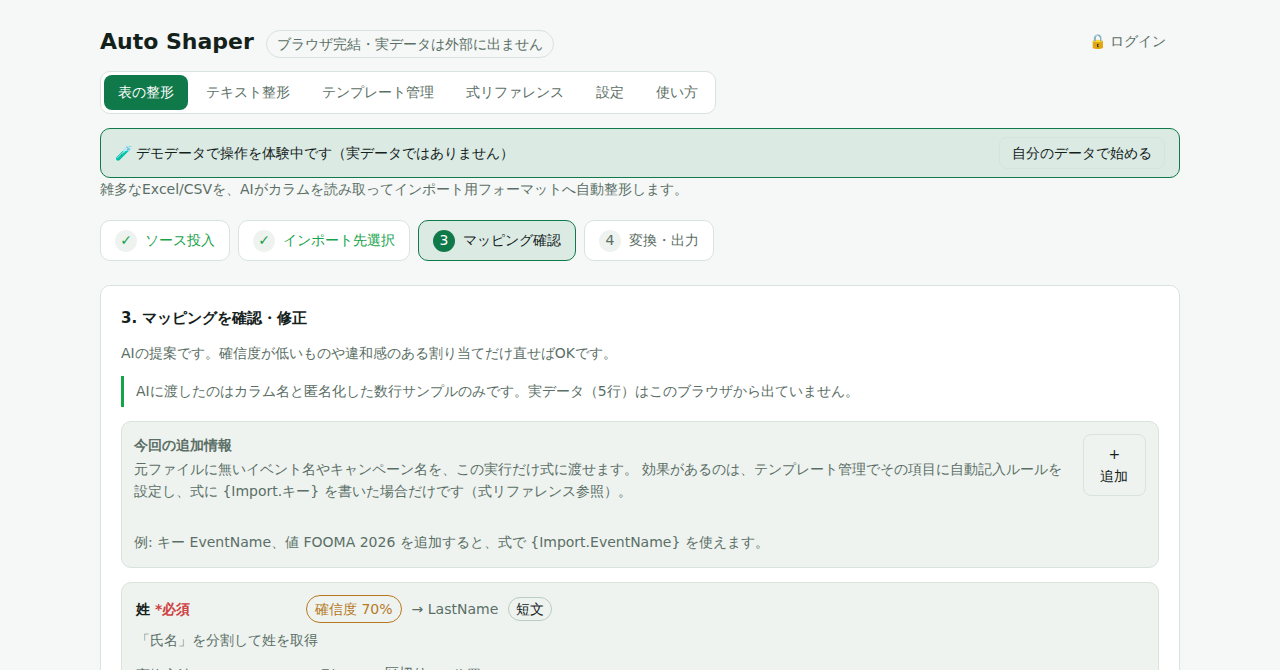
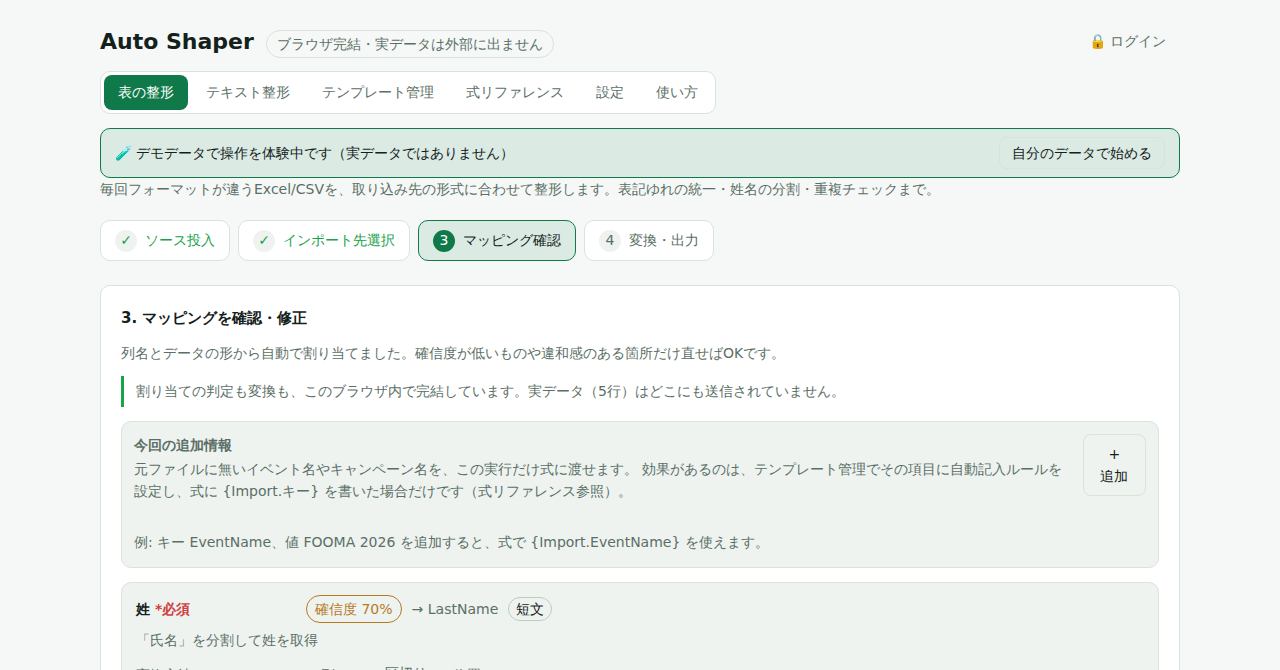
Describe the tool by what it does, not by AI
The copy led with AI everywhere, but AI is off by default and only ever
touches one step: suggesting which source column maps to which field.
The transform engine and worker make zero network calls — normalization,
splitting, joining and the full-row conversion are all local rules. So
the headline claim was selling the smallest, optional part of the tool.

Rewrite the title, description, keywords, OG/Twitter tags, JSON-LD and
noscript around the actual job — reformatting recurring Excel/CSV into
an import layout, fixing width/company-suffix/phone inconsistencies,
splitting names, catching duplicates, and replaying a saved mapping next
month. Keywords follow real search intent (csv 変換, 名寄せ, 表記ゆれ
修正) instead of listing AI. README gets the same treatment, and LLM is
now presented as the optional accuracy aid it is.

One of these was outright wrong rather than oversold: the mapping screen
told every user "AIに渡したのはカラム名と匿名化した数行サンプルのみ" even
with LLM off, when nothing had been sent anywhere. It now says so only
when an LLM actually ran.

diff --git a/index.html b/index.html
@@ -5,14 +5,14 @@
     <meta name="viewport" content="width=device-width, initial-scale=1.0" />
 
     <!-- prettier-ignore -->
-    <title>Auto Shaper — 雑多なExcel/CSVをAIがインポート用フォーマットへ自動整形</title>
+    <title>Auto Shaper — Excel/CSVを取り込み用フォーマットへ整形・名寄せ</title>
     <meta
       name="description"
-      content="バラバラなExcel/CSVのカラムをAIが読み取り、Salesforce・HubSpotなどのインポート用フォーマットへ自動整形するブラウザ完結型ツール。全角半角の統一、(株)→株式会社、氏名の姓名分割、重複検出まで。実データはブラウザ内で処理され外部に送信されません。無料・オープンソース。"
+      content="毎回フォーマットが違うExcel/CSVを、Salesforce・HubSpotなどの取り込み用フォーマットに整えるブラウザツール。全角半角の統一、(株)→株式会社、電話番号の正規化、氏名の姓名分割、重複行の検出をまとめて処理。一度決めた対応付けは保存して次回ワンクリックで再適用できます。データはブラウザ内で処理され外部に送信されません。無料・オープンソース。"
     />
     <meta
       name="keywords"
-      content="CSV 整形,Excel 整形,データクレンジング,名寄せ,CRM インポート,Salesforce インポート,HubSpot,表記ゆれ,データ変換,AI"
+      content="CSV 変換,Excel 整形,データクレンジング,名寄せ,重複削除,表記ゆれ 修正,CRM インポート,Salesforce インポート,HubSpot,顧客リスト 整形,csv フォーマット 統一"
     />
     <link rel="canonical" href="https://auto-shaper.web.app/" />
     <meta name="robots" content="index, follow" />
@@ -27,28 +27,28 @@
     <meta property="og:url" content="https://auto-shaper.web.app/" />
     <meta
       property="og:title"
-      content="Auto Shaper — 雑多なExcel/CSVをAIがインポート用フォーマットへ自動整形"
+      content="Auto Shaper — Excel/CSVを取り込み用フォーマットへ整形・名寄せ"
     />
     <meta
       property="og:description"
-      content="バラバラなExcel/CSVのカラムをAIが読み取り、CRM等のインポート用フォーマットへ自動整形。表記ゆれの統一・姓名分割・重複検出まで、すべてブラウザ内で完結します。"
+      content="毎回フォーマットが違うExcel/CSVを、CRM等の取り込み用フォーマットに整えます。表記ゆれの統一・姓名分割・重複検出まで、すべてブラウザ内で完結。"
     />
     <meta property="og:image" content="https://auto-shaper.web.app/ogp.png" />
     <meta property="og:image:width" content="1280" />
     <meta property="og:image:height" content="670" />
     <meta
       property="og:image:alt"
-      content="Auto Shaper のマッピング画面。AIが提案した変換ルールを確信度つきで確認できる。"
+      content="Auto Shaper のマッピング画面。列の対応付けを確信度つきで確認し、変換前後をプレビューできる。"
     />
 
     <meta name="twitter:card" content="summary_large_image" />
     <meta
       name="twitter:title"
-      content="Auto Shaper — 雑多なExcel/CSVをAIが自動整形"
+      content="Auto Shaper — Excel/CSVを取り込み用フォーマットへ整形"
     />
     <meta
       name="twitter:description"
-      content="バラバラなExcel/CSVのカラムをAIが読み取り、CRM等のインポート用フォーマットへ自動整形。すべてブラウザ内で完結します。"
+      content="毎回フォーマットが違うExcel/CSVを、CRM等の取り込み用フォーマットに整えます。すべてブラウザ内で完結。"
     />
     <meta name="twitter:image" content="https://auto-shaper.web.app/ogp.png" />
 
@@ -62,7 +62,7 @@
         "applicationCategory": "BusinessApplication",
         "operatingSystem": "Web ブラウザ",
         "inLanguage": "ja",
-        "description": "バラバラなExcel/CSVのカラムをAIが読み取り、CRM等のインポート用フォーマットへ自動整形するブラウザ完結型ツール。表記ゆれの統一・姓名分割・重複検出に対応。",
+        "description": "毎回フォーマットが違うExcel/CSVを、CRM等の取り込み用フォーマットに整えるブラウザツール。表記ゆれの統一・姓名分割・重複検出・マッピングの保存に対応。",
         "offers": {
           "@type": "Offer",
           "price": "0",
@@ -85,19 +85,20 @@
           max-width: 720px;
           margin: 0 auto;
           padding: 40px 20px;
-          color: #e6ebf5;
-          background: #0f1420;
+          color: #14211b;
+          background: #f5f8f6;
           font-family: system-ui, sans-serif;
           line-height: 1.7;
         "
       >
-        <h1>Auto Shaper — 雑多な Excel/CSV を AI が自動整形</h1>
+        <h1>Auto Shaper — Excel/CSV を取り込み用フォーマットへ整形</h1>
         <p>
-          バラバラな Excel/CSV のカラムを AI が読み取り、Salesforce・HubSpot
-          などのインポート用フォーマットへ自動整形するブラウザ完結型ツールです。
+          毎回フォーマットが違う Excel/CSV を、Salesforce・HubSpot
+          などの取り込み用フォーマットに整えるブラウザツールです。
           全角半角の統一、<code>(株)</code> → <code>株式会社</code>
-          の正規化、氏名の姓名分割、取り込み前の重複検出まで行えます。
-          実データはブラウザ内で処理され、外部に送信されません。
+          の正規化、電話番号の正規化、氏名の姓名分割、取り込み前の重複検出までまとめて処理できます。
+          一度決めた列の対応付けは保存でき、同じ形のファイルが来たら次回はワンクリックで再適用できます。
+          データはブラウザ内で処理され、外部に送信されません。
         </p>
         <p>
           <strong>
@@ -109,7 +110,7 @@
           ソースコード（MIT ライセンス）:
           <a
             href="https://github.com/jantyran/auto-shaper"
-            style="color: #4f7cff"
+            style="color: #10794a"
           >
             github.com/jantyran/auto-shaper
           </a>

diff --git a/src/components/MappingEditor.tsx b/src/components/MappingEditor.tsx
@@ -39,6 +39,10 @@ export function MappingEditor() {
   const importContext = useStore((s) => s.importContext);
   const update = useStore((s) => s.updateFieldMapping);
   const updateImportContext = useStore((s) => s.updateImportContext);
+  const settings = useStore((s) => s.settings);
+  // LLM は任意機能。OFF のとき(既定)は外部へ一切送っていないので、
+  // 「AIに渡した」とは書かない。
+  const usedLlm = settings.features.llm && !!settings.llm.apiKey.trim();
 
   if (!source || !target || !mapping) return null;
 
@@ -54,12 +58,22 @@ export function MappingEditor() {
     <div className="panel">
       <h2>3. マッピングを確認・修正</h2>
       <p className="subtitle" style={{ marginBottom: 8 }}>
-        AIの提案です。確信度が低いものや違和感のある割り当てだけ直せばOKです。
+        列名とデータの形から自動で割り当てました。確信度が低いものや違和感のある箇所だけ直せばOKです。
       </p>
       <div className="security-note">
-        AIに渡したのはカラム名と匿名化した数行サンプルのみです。実データ（
-        {source.rows.length.toLocaleString()}
-        行）はこのブラウザから出ていません。
+        {usedLlm ? (
+          <>
+            AIに渡したのはカラム名と匿名化した数行サンプルのみです。実データ（
+            {source.rows.length.toLocaleString()}
+            行）はこのブラウザから出ていません。
+          </>
+        ) : (
+          <>
+            割り当ての判定も変換も、このブラウザ内で完結しています。実データ（
+            {source.rows.length.toLocaleString()}
+            行）はどこにも送信されていません。
+          </>
+        )}
       </div>
 
       <ImportContextPanel
@@ -856,7 +870,7 @@ function PreviewTable() {
       <div className="legend">
         <span>
           <span className="swatch" />
-          AIが整形・変換したセル
+          整形・変換されたセル
         </span>
         <span>— 空欄</span>
       </div>

diff --git a/src/App.tsx b/src/App.tsx
@@ -111,9 +111,9 @@ export function App() {
       )}
       <p className="subtitle">
         {view === 'app'
-          ? '雑多なExcel/CSVを、AIがカラムを読み取ってインポート用フォーマットへ自動整形します。'
+          ? '毎回フォーマットが違うExcel/CSVを、取り込み先の形式に合わせて整形します。表記ゆれの統一・姓名の分割・重複チェックまで。'
           : view === 'text'
-            ? '問合せメールなどの雑多なテキストを貼り付けると、AIがテンプレート形式へ整理します（渡す前にマスキング可）。'
+            ? '問合せメールなどの文章を貼り付けると、テンプレートの項目へ振り分けて表形式に整理します。'
             : view === 'admin'
               ? 'インポート先（整形後）のフォーマットを自由に追加・編集できます。'
               : view === 'formula'

diff --git a/README.md b/README.md
@@ -1,19 +1,22 @@
 # Auto Shaper
 
-雑多な Excel/CSV を、AI がカラムを読み取って **インポート用フォーマットへ自動整形**するブラウザ完結型ツール。
+毎回フォーマットが違う Excel/CSV を、**取り込み先の形式に合わせて整形する**ブラウザツール。
 
 **▶ [https://auto-shaper.web.app](https://auto-shaper.web.app) で今すぐ試せます**（インストール不要・ログイン不要）
 
-CRM(Salesforce / HubSpot 等)への取り込み前に発生する、代理店リストやアンケート結果の
-「毎回フォーマットが微妙に違う」データクレンジング作業（XLOOKUP 職人芸）を置き換えることを狙っています。
+CRM(Salesforce / HubSpot 等)への取り込み前に毎回発生する、代理店リストやアンケート結果の
+整形作業 — 列の並べ替え、全角半角の直し、`(株)` の表記統一、氏名の分割、重複チェック — を
+まとめて片付けるためのツールです。**XLOOKUP と置換を繰り返す手作業**の置き換えを狙っています。
+
+一度決めた列の対応付けは保存でき、翌月に同じ形のファイルが来たらワンクリックで再適用できます。
 
 [![マッピング画面](docs/images/03-mapping.png)](https://auto-shaper.web.app)
 
 2 つのモードがあります。
 
-- **表の整形**: 雑多な Excel/CSV を、AI がカラムを読み取ってインポート用フォーマットへ自動整形。
-- **テキスト整形**: 問合せメールなどの**雑多なテキストをコピペ**すると、AI が内容を読み取って
-  選んだテンプレート形式へ**当てはめ・データ整理**。AI に見せたくない情報は、渡す前に**手動/自動でマスキング**できます。
+- **表の整形**: 雑多な Excel/CSV を、取り込み用フォーマットへ整形して CSV/Excel で書き出します。
+- **テキスト整形**: 問合せメールなどの**文章をコピペ**すると、選んだテンプレートの項目へ
+  振り分けて 1 行のレコードに整理します。
 
 ## 画面イメージ
 
@@ -24,10 +27,10 @@ CRM(Salesforce / HubSpot 等)への取り込み前に発生する、代理店リ
 | ![アップロード画面](docs/images/01-upload.png) | ![インポート先の選択](docs/images/02-select-target.png)            |
 | 雑多な CSV/Excel をドロップするだけ            | 用途別のテンプレートから選択（独自フォーマットのアップロードも可） |
 
-| 3. マッピングを確認                                                     | 4. 変換して出力                                                 |
-| ----------------------------------------------------------------------- | --------------------------------------------------------------- |
-| ![マッピング確認](docs/images/03-mapping.png)                           | ![変換結果](docs/images/04-result.png)                          |
-| AI の提案を**確信度つき**で表示。変換前後をプレビューしながら修正できる | 必須欠落・形式不正・**重複候補**を検出してから CSV/Excel で出力 |
+| 3. マッピングを確認                                                              | 4. 変換して出力                                                 |
+| -------------------------------------------------------------------------------- | --------------------------------------------------------------- |
+| ![マッピング確認](docs/images/03-mapping.png)                                    | ![変換結果](docs/images/04-result.png)                          |
+| 自動割り当ての結果を**確信度つき**で表示。変換前後をプレビューしながら修正できる | 必須欠落・形式不正・**重複候補**を検出してから CSV/Excel で出力 |
 
 | テキスト整形モード                                           | テンプレートのカテゴリ                                              |
 | ------------------------------------------------------------ | ------------------------------------------------------------------- |
@@ -41,28 +44,37 @@ CRM(Salesforce / HubSpot 等)への取り込み前に発生する、代理店リ
 ## コンセプト
 
 - **ブラウザ完結**: 実データはあなたのブラウザから外に出ません。パースも変換も CSV 出力もすべてローカル。
-- **AI にはルールだけを推論させる**: AI に渡すのは「カラム名」と「匿名化した数行サンプル」のみ。
-  AI が作るのは変換ルール(JSON)だけで、実データの全件変換はローカルの変換エンジンが実行します。
-- **Human-in-the-loop**: AI の提案は確信度つきで表示し、変換前後をプレビュー。人が確認・修正してから実行します。
+- **整形処理にネットワークは不要**: 列の対応付けの判定も、全行の変換も、ローカルの
+  ルールエンジンが実行します。**既定では外部と一切通信しません**（オフラインでも動きます）。
+- **確認してから実行**: 自動で割り当てた結果を確信度つきで表示し、変換前後をプレビュー。
+  人が確認・修正してから全件に適用します。
 - **堅牢な JSON ルールエンジン**: `eval` などの動的コード実行は使わず、表現力を
   「1対1 / 結合 / 分割 / 固定値 / 条件分岐 + 正規化」に限定してデータ破損リスクを排除しています。
+- **AI は任意の補助**: 列名が独特で自動判定が外れるときだけ、LLM を有効にすると精度を補えます。
+  **既定は OFF** で、使わなくても全機能が動きます（詳細は「主な機能」の LLM 推論）。
 
 ## 主な機能
 
 すべて「設定」ページで個別にON/OFFできます。
 
-- **マスキング**: AIに渡す前に、氏名・会社名・メール・電話・住所など**個人情報の列を自動判定して伏字化**。
+- **表記ゆれの正規化**: 全角/半角の統一、`(株)`→`株式会社`、電話番号のハイフン統一、
+  メールの小文字化などを項目ごとに指定できます。
+- **列の組み替え**: 1対1の割り当てのほか、`氏名`→姓/名の**分割**、複数列の**結合**、固定値、
+  条件分岐に対応します。
+- **マッピングの記憶(レシピ)**: 確定したマッピングを保存し、同じ列構成のファイルが来たら**ワンクリックで再適用**。
+  毎月届く同じ代理店フォーマットの取り込みを一撃で終わらせます。
+- **マスキング**: 外部に送る場合に備え、氏名・会社名・メール・電話・住所など**個人情報の列を自動判定して伏字化**。
   追加でマスクしたい列も指定できます。「サンプル値を一切送らず列名だけ」の最強モードも選べます。
-- **LLM推論**: 設定でAPIキー(**Anthropic / OpenAI / Google Gemini**)を入れると、ローカル推論の代わりにLLMでマッピングを推論。
-  送るのは**マスキング済みのカラム名とサンプルのみ**で、自前バックエンド経由。**利用にはログインが必要**です
-  （運営のサーバー費用を無関係な第三者の連打から守るための制限。未ログイン時・失敗時はローカル推論に自動フォールバック）。
+- **LLM推論（任意・既定OFF）**: 列名が独特で自動判定が外れるときの補助。設定でAPIキー
+  (**Anthropic / OpenAI / Google Gemini**)を入れると、割り当ての推論だけをLLMに任せられます。
+  送るのは**マスキング済みのカラム名とサンプルのみ**で、実データの変換は変わらずローカルです。
+  **利用にはログインが必要**（運営のサーバー費用を無関係な第三者の連打から守るための制限。
+  未ログイン時・失敗時はローカル推論に自動フォールバック）。
 - **固定値・選択肢・既定値**: テンプレートの各項目に「選択可能な固定値の候補」と「既定値」を設定できます。
   元データに対応列が無い項目は**既定値が自動で入り**、マッピング画面でプルダウン選択や自由入力で上書きできます。
 - **ログイン(任意)とDB保存**: ログインしなくても使えます。ログインすると、テンプレートとマッピング(レシピ)が
   **サーバー(DB)にユーザー単位で保存**され、複数端末で共有できます（未ログイン時はブラウザの localStorage）。
-- **学習辞書**: あなたがマッピングを直した履歴(列名→項目)を蓄積し、次回以降のサジェスト精度を上げます。
-- **マッピングの記憶(レシピ)**: 確定したマッピングを保存し、同じ列構成のファイルが来たら**ワンクリックで再適用**。
-  毎月届く同じ代理店フォーマットの取り込みを一撃で終わらせます。
+- **学習辞書**: あなたがマッピングを直した履歴(列名→項目)を蓄積し、次回以降の自動割り当ての精度を上げます。
 - **取り込み前の検証**: 変換後に必須欠落・メール/電話の形式不正を検出し、該当行をハイライト。
 - **重複検出・名寄せ**: メール(なければ会社名+姓)で重複候補の行を検出。
 - **配色の切り替え**: 明るい配色 3 種・暗い配色 3 種から選べます（既定は白地に深緑の
@@ -74,7 +86,7 @@ CRM(Salesforce / HubSpot 等)への取り込み前に発生する、代理店リ
 1. **ソース投入** — 整形前の CSV/Excel をドロップ
 2. **インポート先選択** — プリセット(Salesforce Lead / HubSpot Contact)、または独自の
    インポート用シート(ヘッダー行)をアップロード
-3. **マッピング確認** — AI の提案を確認し、確信度が低い箇所だけ修正。プレビューで整形結果を確認
+3. **マッピング確認** — 自動割り当ての結果を確認し、確信度が低い箇所だけ修正。プレビューで整形結果を確認
 4. **変換・出力** — 全件をブラウザ内で変換し、整形済み CSV をダウンロード
 
 `samples/messy-leads.csv` を投入 → Salesforce リードを選ぶと動作を試せます。
@@ -85,18 +97,18 @@ CRM(Salesforce / HubSpot 等)への取り込み前に発生する、代理店リ
 ヘッダー「テキスト整形」から使えます。表になっていない**フリーテキスト**を、テンプレート形式へ整理する用途です。
 
 1. **貼り付け** — 問合せメールやメモの本文をテキストエリアにそのままコピペ
-2. **マスキング（任意）** — AI に見せたくない箇所を保護します
+2. **マスキング（任意）** — 外部に出したくない箇所を保護します（LLM を使う場合に効きます）
    - **自動スキャン**: メール・電話・カード番号・長い数字列をパターン検出して `[EMAIL_1]` のような
      トークンへ一括置換
    - **選択範囲をマスク**: 氏名・会社名・住所など、選択したテキストを指定カテゴリでトークン化
      （同じ文字列はまとめて置換）
 3. **テンプレート選択** — プリセット、または「テンプレート管理」で作った独自項目のテンプレートを選択
-4. **整形** — AI（設定で LLM を有効化した場合）が各項目へ当てはめて 1 レコードに整理。未設定なら
-   ラベル・パターンによる**ローカル抽出**で動作します
+4. **整形** — ラベル・パターンによる**ローカル抽出**で各項目へ当てはめて 1 レコードに整理します
+   （設定で LLM を有効化している場合は、代わりに LLM が当てはめます）
 5. **確認・出力** — 各項目を編集し、テキスト/JSON でコピー、または CSV/Excel でダウンロード
 
-**安全性**: AI へ送られるのは**マスク済みのテキストだけ**で、元の値はこのブラウザ内の辞書にのみ残ります。
-AI の応答に含まれるトークンは、表示・出力の前に**ローカルで元の値へ復元**します（マスキングのロジックは
+**安全性**: LLM を使う場合でも、送られるのは**マスク済みのテキストだけ**で、元の値はこのブラウザ内の
+辞書にのみ残ります。応答に含まれるトークンは、表示・出力の前に**ローカルで元の値へ復元**します（マスキングのロジックは
 [Maskify](https://github.com/jantyran/Maskify-ai) を本リポジトリの方針に合わせて移植したものです）。
 
 ## 使ってみる
